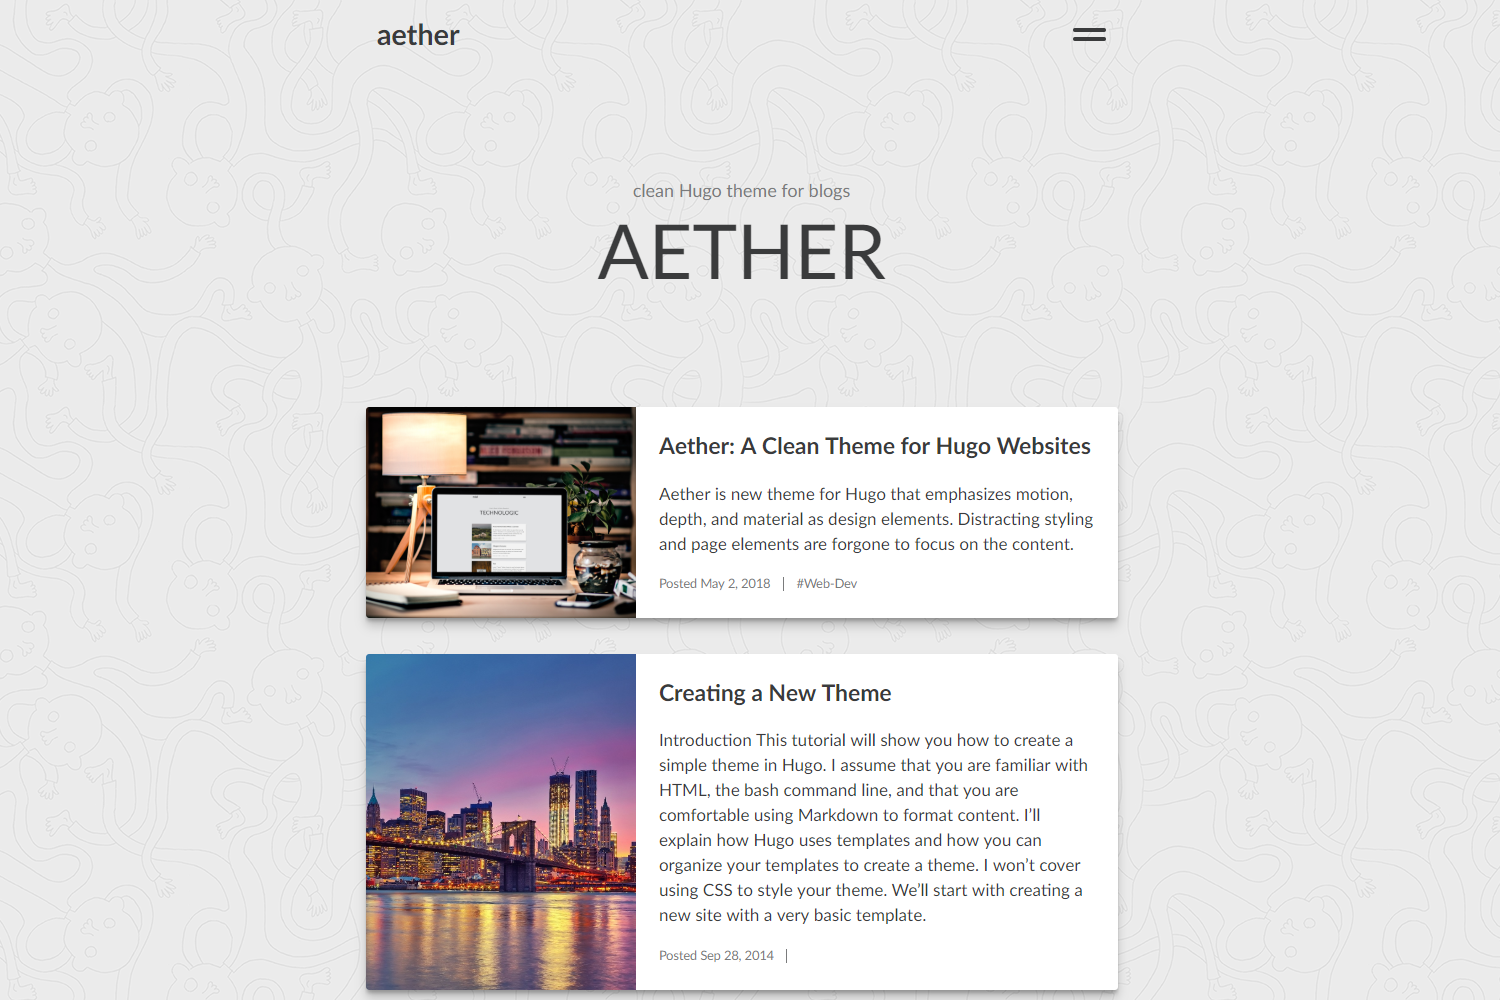
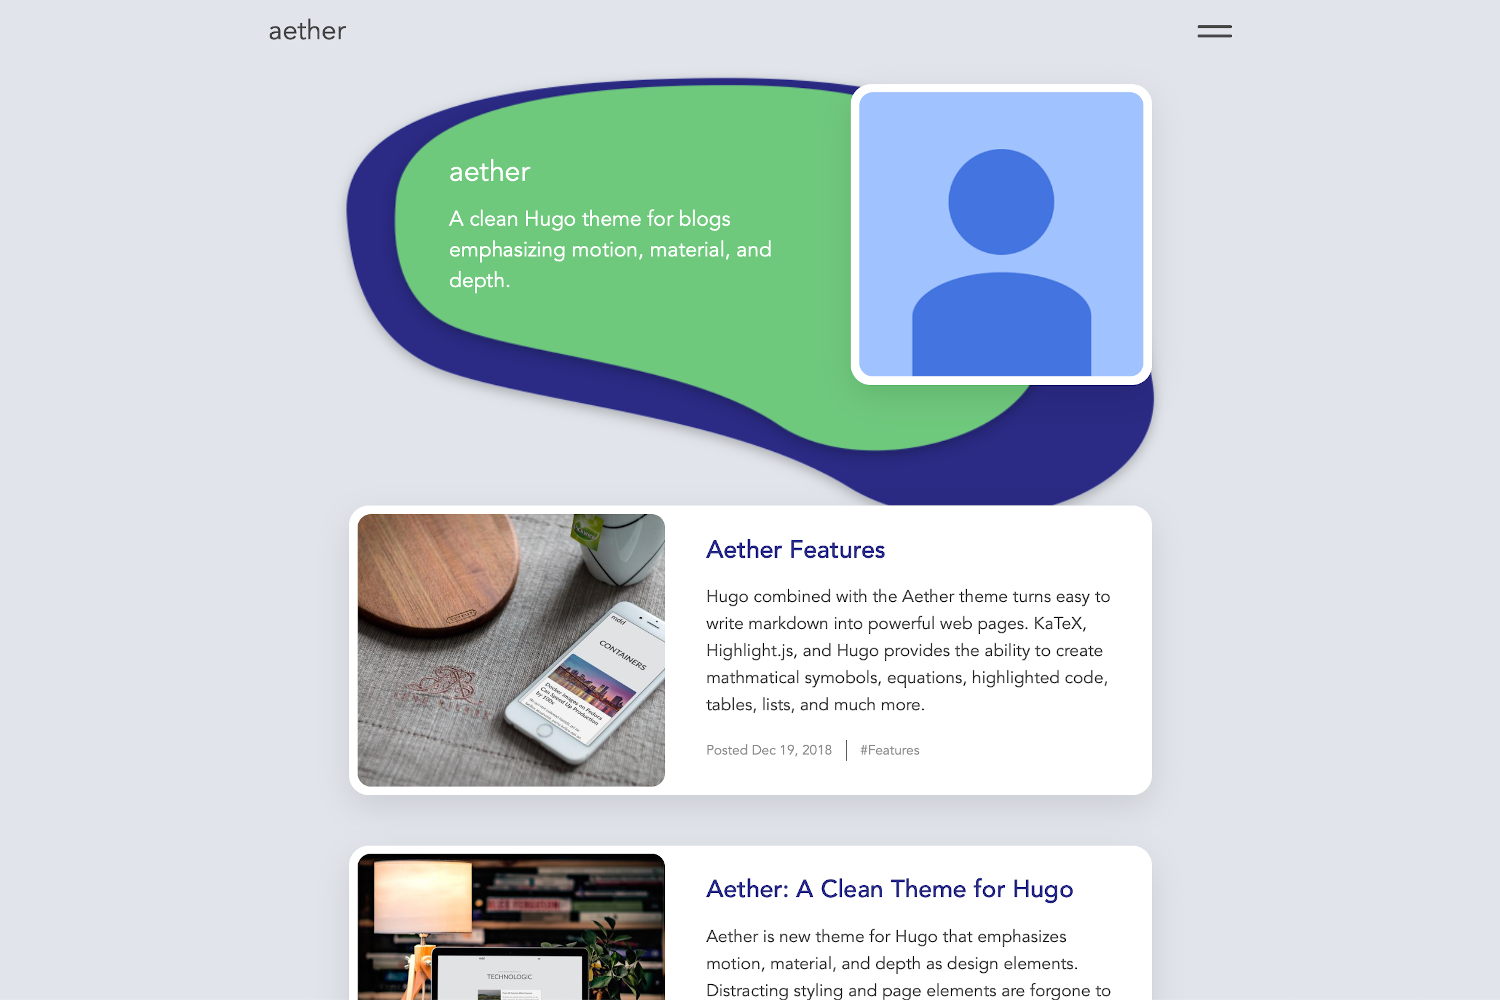
Fix example site and theme screenshot images

diff --git a/exampleSite/content/_index.md b/exampleSite/content/_index.md
@@ -1,5 +1,5 @@
 ---
 title: "aether"
 date: 2018-04-27T09:46:15-04:00
-description: "clean Hugo theme for blogs"
+description: "A clean Hugo theme for blogs emphasizing motion, material, and depth."
 ---
